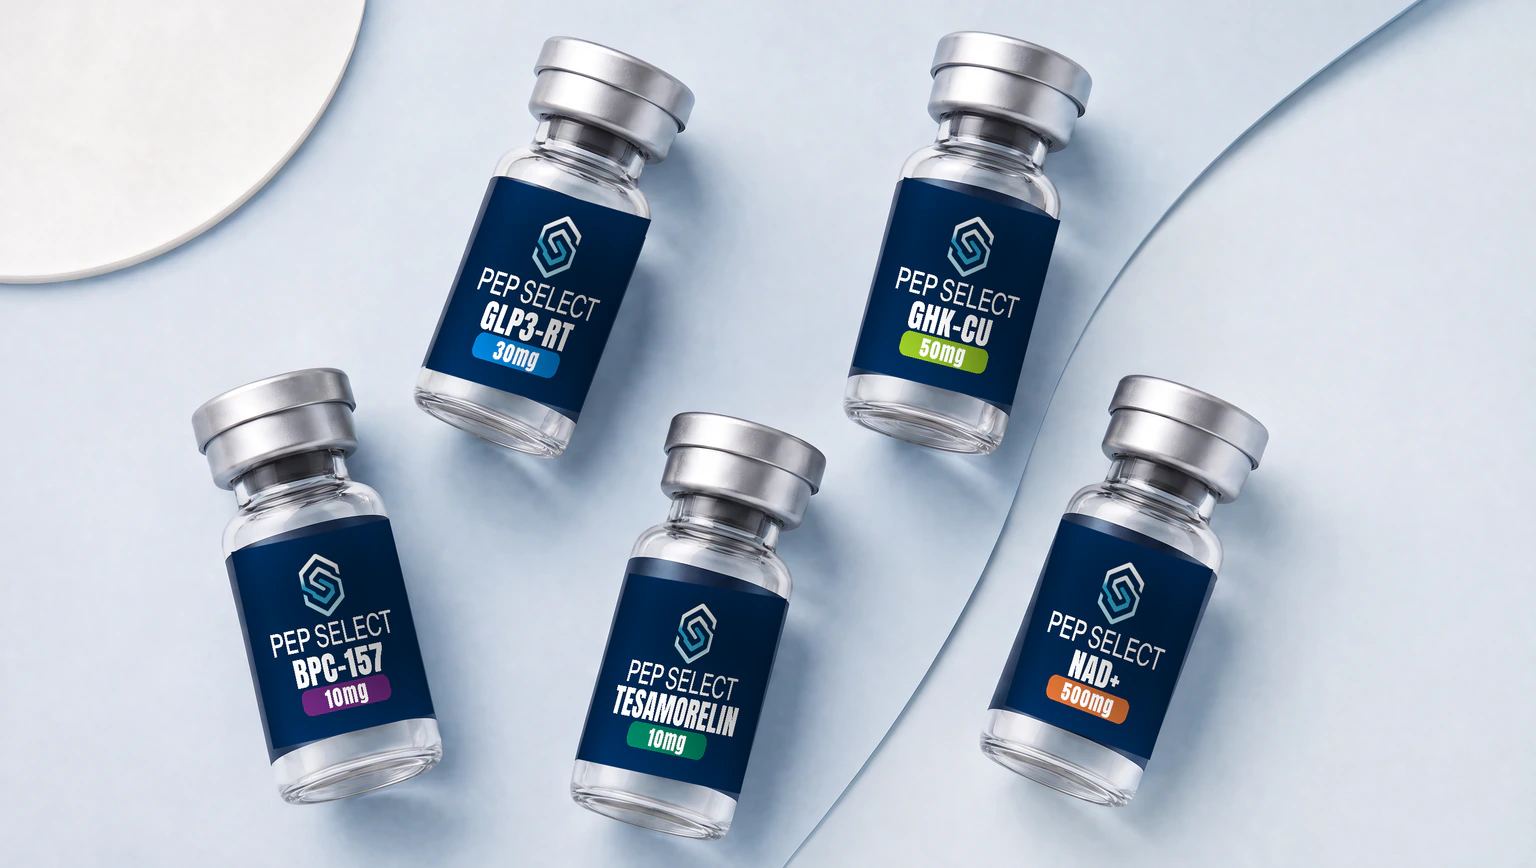
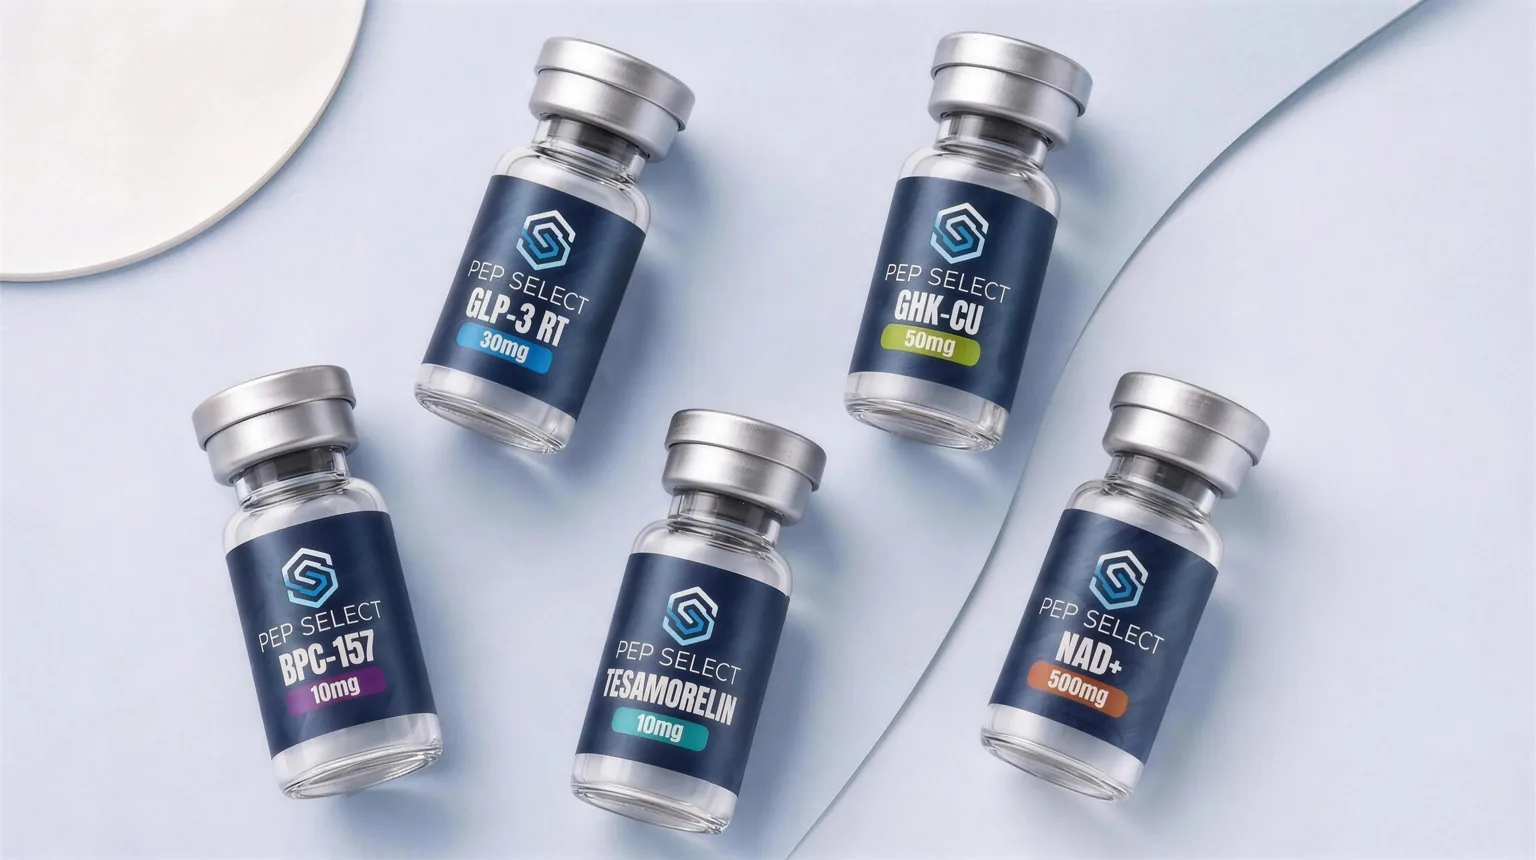
Replace homepage hero artwork

diff --git a/pepselect-child/style.css b/pepselect-child/style.css
@@ -3,7 +3,7 @@ Theme Name: Pep Select
 Description: Lightweight Hello Elementor child theme for the Pep Select customer-facing presentation layer.
 Author: Pep Select
 Template: hello-elementor
-Version: 0.25.0-beta.51
+Version: 0.25.0-beta.52
 Requires at least: 6.4
 Requires PHP: 7.4
 Text Domain: pepselect-child

diff --git a/pepselect-child/CHANGELOG.md b/pepselect-child/CHANGELOG.md
@@ -1,6 +1,13 @@
 # Changelog
 
-**Release candidate: 0.25.0-beta.51** - Apply the approved new labels to the homepage hero lineup.
+**Release candidate: 0.25.0-beta.52** - Replace the homepage hero with the approved finished vial artwork.
+
+## 0.25.0-beta.52 - 2026-08-23
+
+- Replace the prior composited homepage hero with the approved finished 4096 px artwork featuring the new Pep Select logo and updated vial labels.
+- Regenerate the existing seven responsive WebP hero sizes while preserving the homepage layout, copy, image treatment, and responsive source selection.
+
+**Previous release candidate: 0.25.0-beta.51** - Apply the approved new labels to the homepage hero lineup.
 
 ## 0.25.0-beta.51 - 2026-08-22
 
